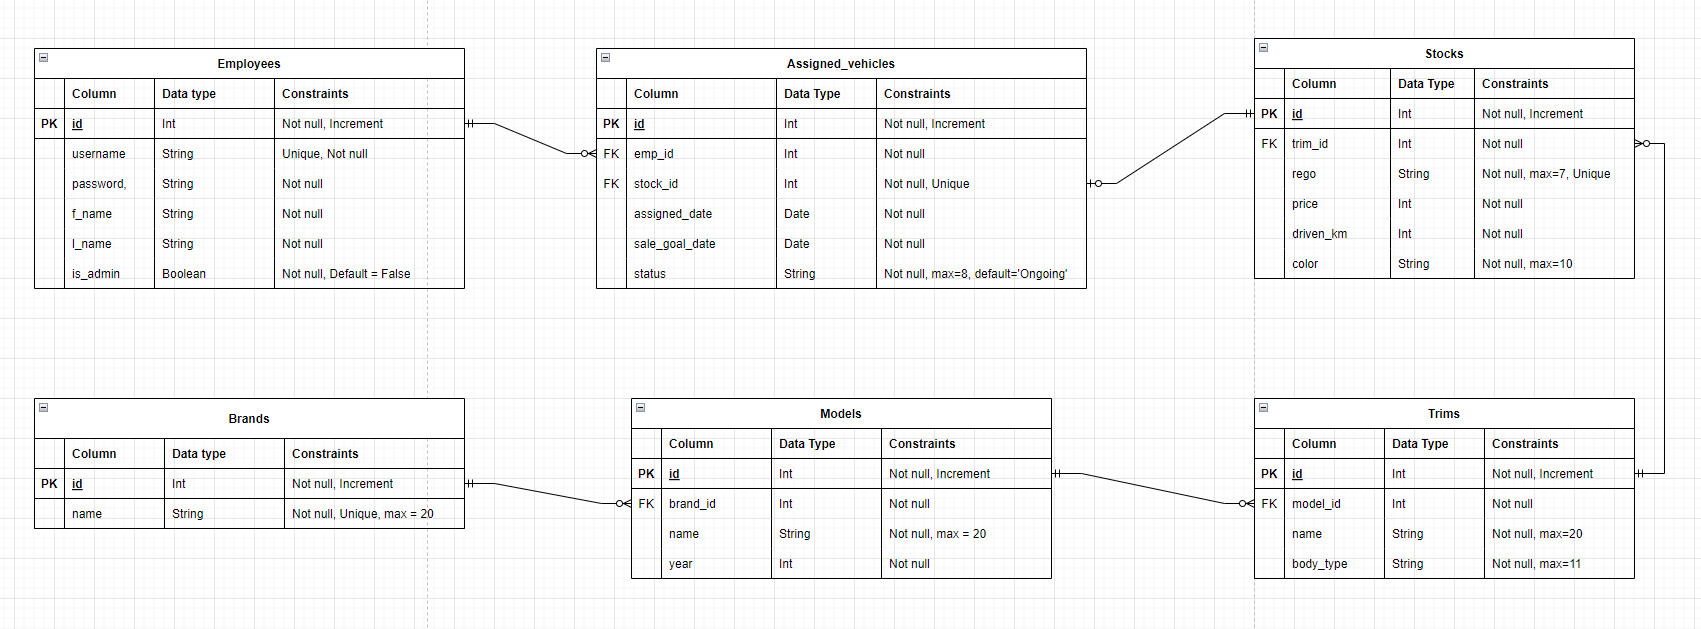
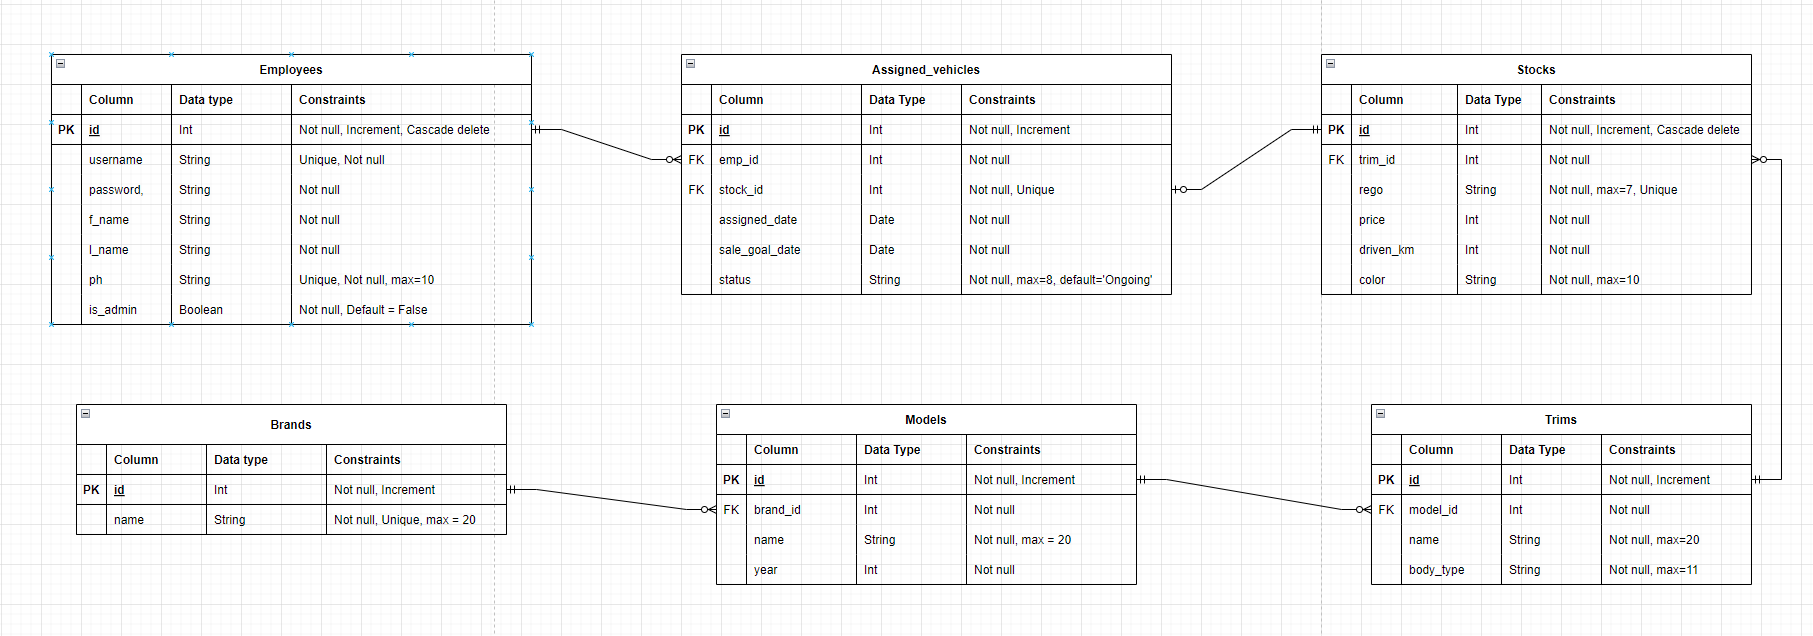
assignment final

diff --git a/src/models/employees.py b/src/models/employees.py
@@ -5,8 +5,8 @@ from marshmallow.exceptions import ValidationError
 
 
 name_constraints = ma.String(validate=Regexp(
-        '^[a-zA-Z ]+$', 
-        error="Only accept a-z, A-Z and space input"
+        '^[a-zA-Z]+$', 
+        error="Only accept English alphabets"
         ))
 
 class Employee(db.Model):
@@ -17,7 +17,7 @@ class Employee(db.Model):
     password = db.Column(db.String, nullable=False)
     f_name = db.Column(db.String, nullable=False)
     l_name = db.Column(db.String, nullable=False)
-    ph = db.Column(db.String, unique=True)
+    ph = db.Column(db.String(10), unique=True)
     is_admin = db.Column(db.Boolean, nullable=False, default=False)
     
     assigned_vehicles = db.relationship("AssignedVehicle", back_populates="employee", cascade="all, delete")

diff --git a/README.md b/README.md
@@ -1,3 +1,5 @@
+
+
 # Introduction
 
 ## Project purpose
@@ -77,7 +79,7 @@ Columns:
 
 # Relationships
 
-*Common fact: The 'Many' side table will always have the foreign key in one to many relationship.*
+*Commonly applied: The 'Many' side table will always have the foreign key in one to many relationship. And foreign key must be the 'One' side table's PK that uniquely identified.*
 
 ## Brands - Models
 
@@ -91,7 +93,7 @@ A model can only have one brand.
 
 <img src="docs/Brand.png">
 
-`backref` is a legacy way to refer parent's table.  
+`backref` is a legacy way to define what parent table should be called in child's model. This value can be used in child's model Schema and when referring the foreign key column that comes from the parent table.
 In the case of using `backref`, it only requires to define a relationship in the parent's model.  
 
 <b>Defining one to many relationship:</b>  
@@ -217,20 +219,19 @@ Principles are the same as others.
 
 One to optional One  
 A stock can be assigned 0 to one time.  
-An assigned vehicle can have only one stock. 
+An assigned vehicle can have only one stock.  
+Since this is one to one relationship, the table that depends on the other should have the foreign key.  
+Because, for example, if 'Stocks' doesn't have any record, 'Assigned Vehicles' can't have any record either.  
+But it makes sense that 'Stocks' records exist and haven't been assigned yet.  Therefore, 'Assigned_Vehicles' depends on the 'Stocks'.
 
 ### SQLAlchemy
 
 <img src="docs/stock.png">  
 
-Since this is one to one relationship, the model that depends on the other should have the foreign key.  
-Because, for example, if a record from the model 'Stock' doesn't exist, any record from the model 'Assigned_vehicle' can't be created.    
-
-
 Other principles are the same as Trims-Stocks relationship but this case has:
 
 1. `cascade="all, delete"`
-    - On deletion of a record from the model Stock, the corresponding record will be deleted in child's model (Assigned_Vehicles) automatically.
+    - On deletion of a record from the model Stock, the corresponding record will be deleted in child's model (AssignedVehicle) automatically.
 2. `uselist=False`
     - Indicates One to One relationship.  
 
@@ -274,7 +275,7 @@ stock_id INTEGER NOT NULL,
 FOREIGN KEY(stock_id) REFERENCES stocks(id) ON DELETE CASCADE);
 ```
 
-In the child table's foreign key constraint section, include `ON DELETE CASCADE` at the end.
+In the child table's foreign key defining section, add `ON DELETE CASCADE` at the end.
 
 ## Employees - Assigned_vehicles
 
@@ -282,7 +283,7 @@ In the child table's foreign key constraint section, include `ON DELETE CASCADE`
 
 One to optional many  
 An employee can have many assigned vehicles.  
-An assigned vehicle can only have one employee.
+An assigned vehicle can only be managed by one employee.
 
 ### SQLAlchemy
 
@@ -312,7 +313,7 @@ Same principle and issue as Stock - Assigned_vehicle case.
 
 ## Functionality
 
-This API is built to serve used car sales industries as a vehicles management system that can be utilized internally.  
+The main features of this API is offering stocks, tasks and employees management functions that can be utilized internally.  
 The key problems to be solved in terms of functionality were:
 
 1. Employee registration
@@ -325,7 +326,7 @@ The key problems to be solved in terms of functionality were:
     - To assign vehicles to dealers.
 4. Assigning vehicles to the dealers
     - So dealers can check which vehicles have been assigned to them with other necessary information.
-    - To track status of the vehicle for further management and decision. (please check the next section for more information)
+    - To track status of the vehicle to make easier for further management and decision. (please check the next section for more information)
 
 
 The main function of this API is allowing managers to assign vehicles to dealers and dealers easily checking the vehicles that have been only assigned to them.  
@@ -344,7 +345,9 @@ It provides following information :
 '*' : *By entering a specific endpoint, all status values for all records that have expired sale goal dates and 'Ongoing' status values, can be updated to have 'Overdue' status values automatically at once.*  
 
 Also, managers can filter the records by the status. For example if a manager apply 'Sold' filter, it shows only sold vehicles.  
-Then, manager can delete the sold vehicles records from the stock and the corresponding assigned vehicle record will be deleted automatically together.
+Then, manager can delete the sold vehicles records from the stock and the corresponding assigned vehicle record will be deleted automatically together. 
+
+And dealers can check which vehicles have been assigned to them by entering `/assignments/my` endpoint. It extracts dealers' id from their JWT and will return the vehicles that have been only assigned to them.
 
 ## Authentication & Authorization
 
@@ -361,18 +364,82 @@ The problems have been solved by:
     - To prevent a (some) particular employee accessing to not related data.
     - For example, an employee does not need to manipulate the other employees' assigned vehicles data or personal information.
 4. Distinguishing between 'manager' and 'employee'.
-    - To provide different authorization.
+    - To provide different authority.
     - For example, only managers are authorized to assign vehicles.
 
-# API documentation by resource
-*Note: Due to limit of number of documnet publishing, had to put two of different resource into one*
+## API documentation by resource
+
+*Note: Due to limit of number of document publishing, two different blueprints are in one document.  
+Customized messages for all validation failures and errors have been set so guidance are not included in the documents .*
+
 ## 1. <a href= "https://documenter.getpostman.com/view/24302062/2s8YYPGfec#intro">Auth - Assigned Vehicles</a>
 
 ## 2. <a href = "https://documenter.getpostman.com/view/24302062/2s8YYPFKRB"> Brands - Models </a>
 
 ## 3. <a href = "https://documenter.getpostman.com/view/24302062/2s8YYPHLJr">Trims - Stocks</a>
 
-## 4. <a href = "">Models</a>
+# Project planning
+
+## Overview
+
+<a href="https://trello.com/b/boadS03y/used-car-sales-system"> Trello</a> is used for project planning.  
+   
+<img src="docs/trello.png">  
+
+I separated development process into 4 parts which are `Define Models`, `cli commands`, `Define Schema` and `controllers`. The implementing process are in order from top to bottom and from left to right. I also set the deadline date for each card. For relatively small jobs, I gave one deadline per one part. They are `Define Models`, `cli commands` and `Define Schema`. But since `Controllers` part would take much longer than those, I set one deadline per two sections and gave myself two days to work for each pair.
+
+*In `Goal` there is a simple description of the purpose of the app.*  
+*In `ERD` there is attached ERD for the project*
+
+## Define Models
+
+<img src ="docs/model_emp.png">
+
+*One example in `Define Models`.*  
+
+This section is designed for defining model works.  
+The title `Employee` indicates the model class name to work with.  
+Check lists were used to track the process.  
+It consists of necessary considerable works for when defining a Model.  
+It's designed to create one model and move on to next section to create another model.  
+
+## cli commands
+
+<img src="docs/cli.png">
+
+*One example in `cli commands`.*  
+
+This section's title (`Employees`) indicates the table name to work with and this section shows what to check and what need to be included while dealing with cli commands. `constraints` part shows what should be checked while seeding data and `DB` part shows what need to be checked in the database after seeding data.  
+
+It is designed to follow this process when coding: 
+
+1. Seed data into the table that the title indicates.
+2. Check `constraints` part.
+3. Check `DB` part.
+4. Move on to next table section.  
+
+### Defining Schema
+
+<img src="docs/schema.png">
+
+*One example in `Defining Schema`*
+
+This section is designed for defining Schema works for each model.  
+Like others, the title shows a model name to work with.  
+The `Schema` part includes the general schema work in class `Meta`.  
+The `Validation` part shows the columns and what need to be validated for each column.
+
+### Controllers
+
+<img src="docs/controller.png">
+
+*One example in `Controllers` section.*  
+
+This section is designed for making controller works.  
+Like others, title shows a resource name to work with.  
+It has checklists for all http methods to be implemented for each resource and each checklist shows what need to be done for the http method that its title indicates.  
+
+Just like others, it's designed to work with one resource at a time, from top to bottom order. 
 
 # Used third party services
 
